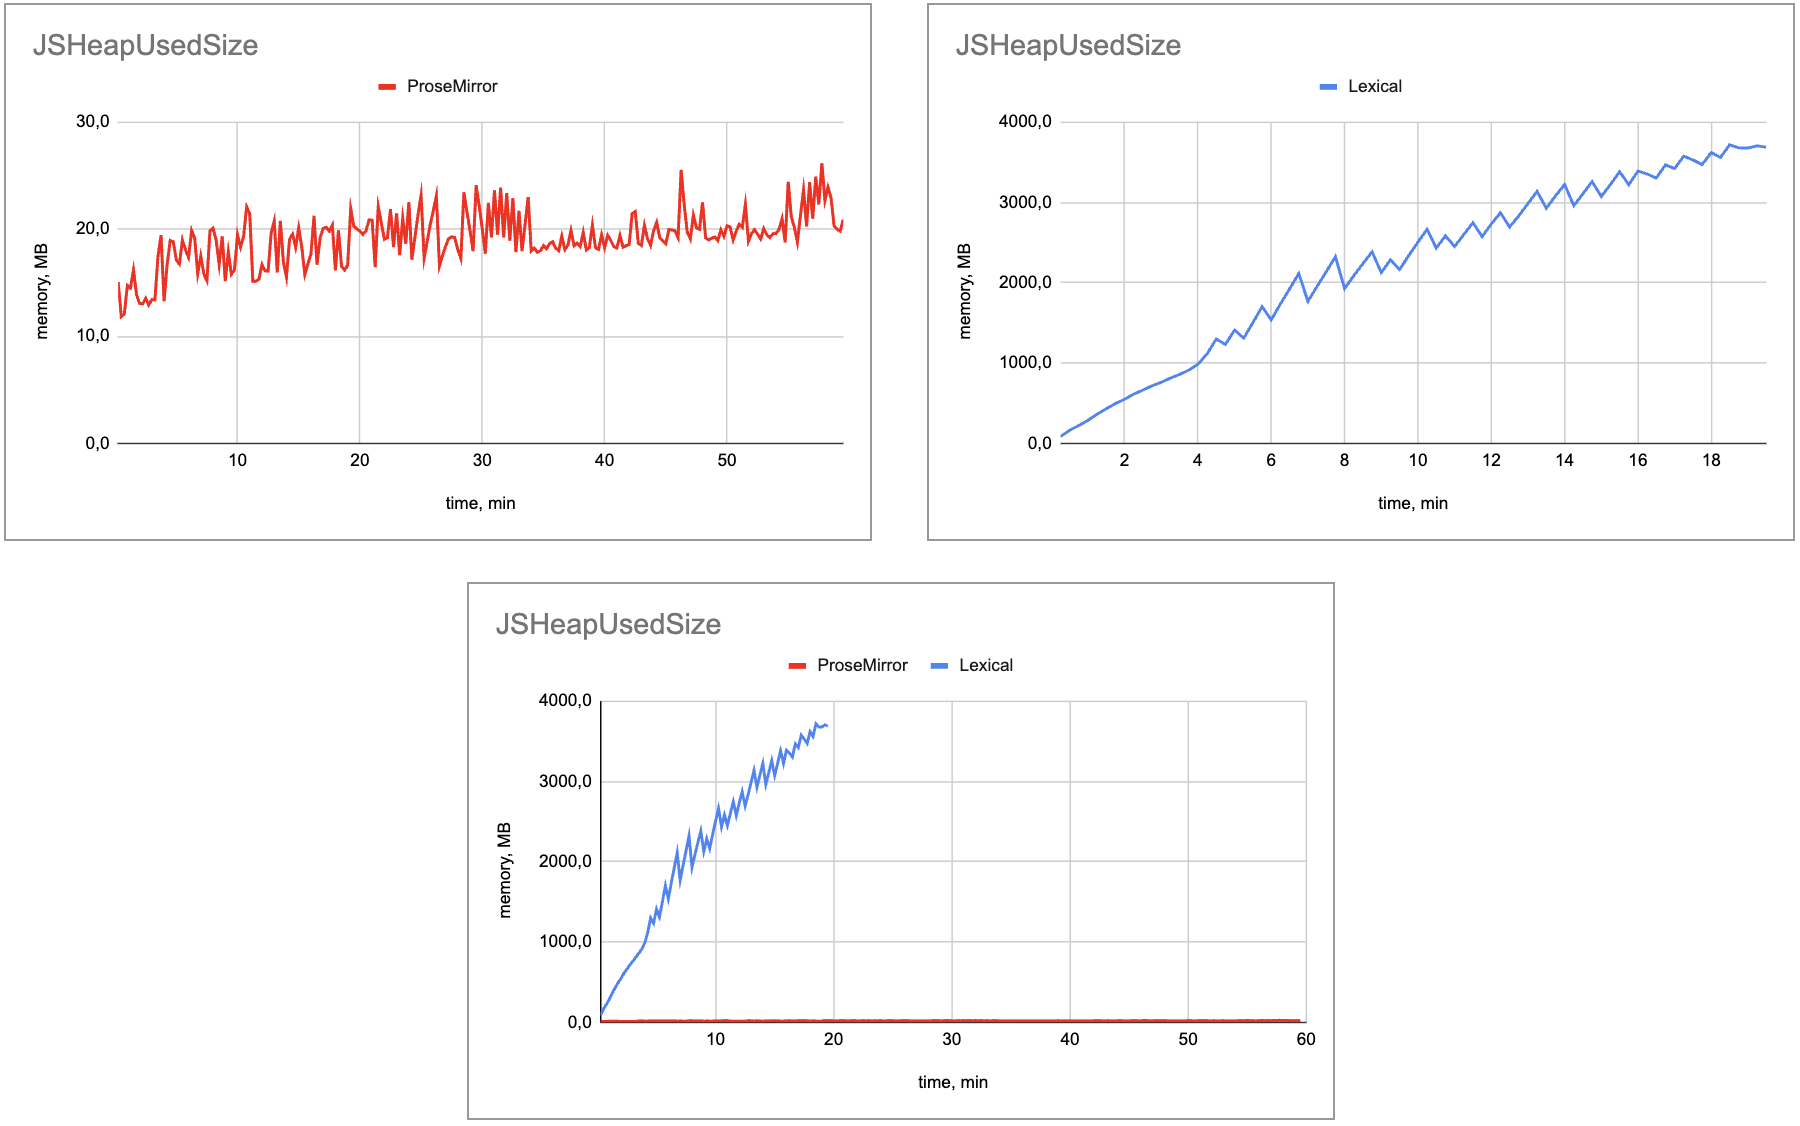
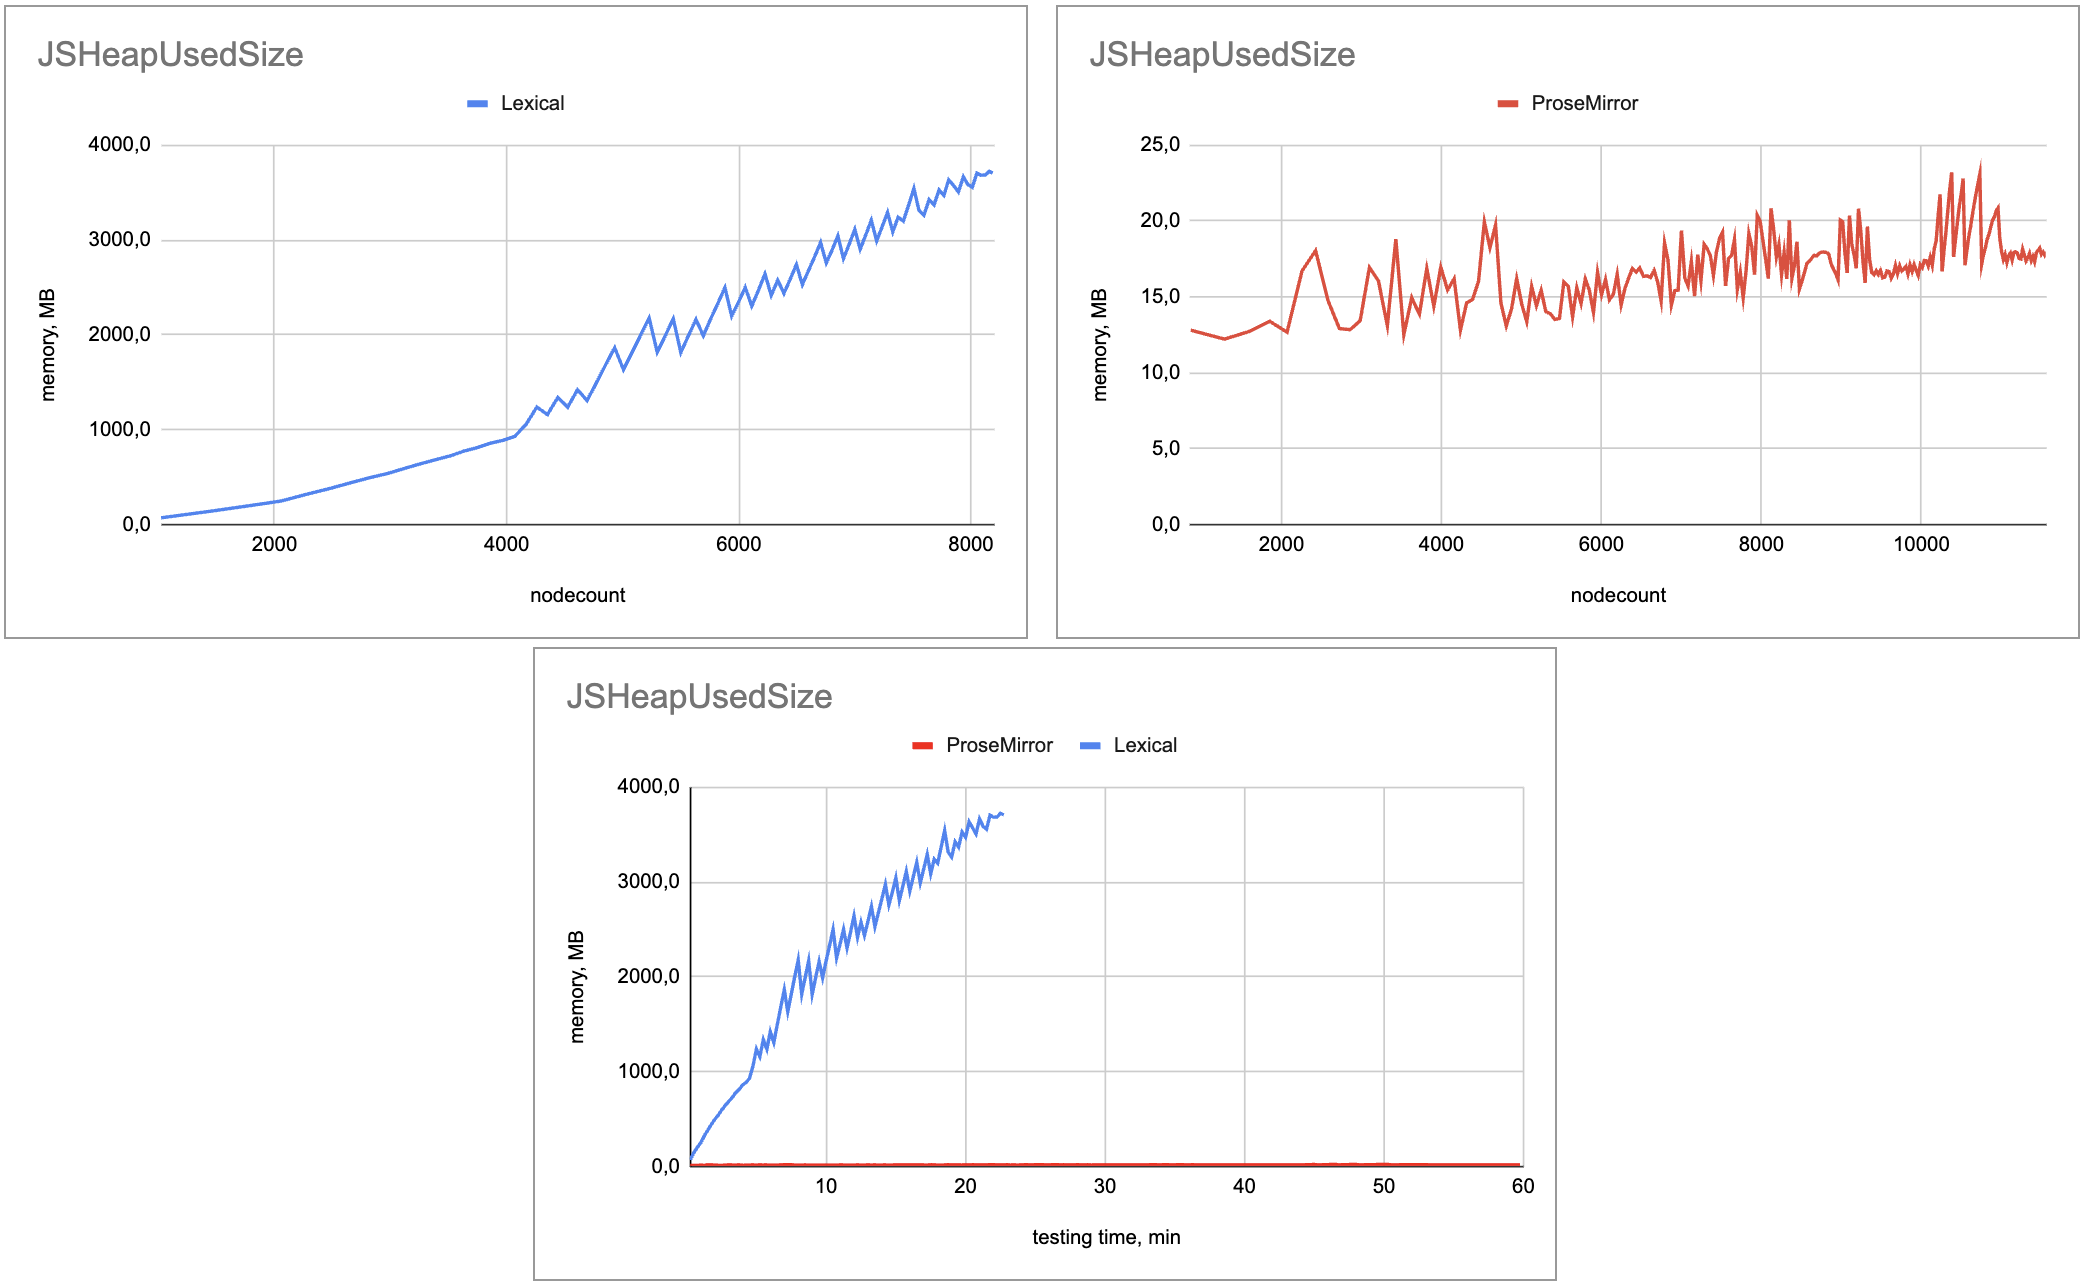
graphs with nodecount

diff --git a/pages/blog/lexical-prosemirror-comparison.tsx b/pages/blog/lexical-prosemirror-comparison.tsx
@@ -22,7 +22,7 @@ const imageStyle: React.CSSProperties = {
   position: "relative",
   display: "flex",
   alignSelf: "center",
-  width: "80%",
+  width: "100%",
   maxWidth: "100%",
   aspectRatio: "16 / 9",
 };
@@ -31,7 +31,7 @@ const MD0 = /* language=md */ `
 
 # tl;dr
 We compared two rich text editors - Lexical and ProseMirror - to evaluate their performance under data load over time. 
-The tests showed significant differences between the two editors depending on the amount of time we want to use them. Lexical performs better for short-term use, responding faster initially, but its performance degrades and it can become unresponsive after about 20 minutes of heavy use. ProseMirror, on the other hand, is designed for long-term use, offering more predictable and stable performance over time. 
+The tests showed significant differences between the two editors depending on the amount of time we want to use them. Lexical performs better for short-term use, responding faster initially, but its performance degrades under very heavy use (likely) due to inefficient memory management. ProseMirror is designed for long-term use, offering a little bit slower responses but more predictable and stable performance over time. 
 
 
 ## Introduction
@@ -49,16 +49,42 @@ The purpose of this test is to see if there's any difference between the two edi
 The website containing the editors was as clean as possible, built with React, the first load bundle of the ProseMirror editor is 158 KB and the Lexical is 160 KB. Both editors had the same basic features: the ProseMirror had an example setup, and the Lexical got equipped with the same tools.
 
 # Test
-The test was performed using Playwright, running in Chrome, and collecting data using the CDP (Chrome DevTools Protocol). The test mimicked typing a word and pressing the ‘enter’ key in a loop. We’ve collected data every 15 seconds and let the test run for one hour (shown in minutes on the x-axis) before manually stopping it. The metrics measured were JSHeapUsedSize, LayoutCount, ThreadTime, and ScriptDuration.
+The test was performed using Playwright, running in Chrome, and collecting data using the CDP (Chrome DevTools Protocol). The test mimicked typing a word and pressing the ‘enter’ key in a loop, creating a new paragraph in every line. We collected measurements and nodecount in every 15 seconds and let the test run for one hour. The metrics measured were JSHeapUsedSize, LayoutCount, ThreadTime, and ScriptDuration.
 
-\`\`\`tsx
+## Note
+You will notice that the Lexical editor stops consistently around the 20-minute mark / 8200 node count in all the tests. The likely cause is related to memory management issues in the long run. 
+The ProseMirror editor could go up to 1 hour, usually reaching 11500 node count.
+
+## (Bypass)
+As we wanted to make the test as noiseless as possible, a thought arose - could it be that the repetitive CDP data collection is interfering with the test? What if instead we saved the trace JSON file at the end and processed it by filtering for only the relevant metrics? 
+
+Each metric we measured with the CDP can be roughly calculated from the data of these trace events:
+
+\**ScriptDuration\**: *total of* RunMicroTasks.dur (cat: v8.execute), FunctionCall.dur (cat: devtools.timeline), EventDispatch.dur (cat: devtools.timeline), MajorGC.dur (cat: devtools.timeline), MinorGC.dur (cat: devtools.timeline)
+
+\**LayoutCount\**: how often the Layout event occurs (cat: devtools.timeline)
+
+\**ThreadTime\**: RunTask.tdur (cat: devtools.timeline) - we needed here the 'tdur' value because it reflects the actual CPU time used by the thread to perform the task, excluding any potential idle time, waiting periods, or other interruptions where the thread was not actively processing the event
+
+\**JSHeapUsedSize\**: UpdateCounters.args.data.jsHeapSizeUsed (cat: disabled-by-default-devtools.timeline)
+
+The trace file can get very large very quickly, so we had to set a filter for the required categories in the beginning and allocate 8GB of memory for it, with an increased timeout in the afterAll hook to let it save the file. Still, the tracing is not designed for an hour-long test that mimics quite active user interaction, so after about 2.5 minutes it just stopped.
+
+And that's how we stayed with the CDP.
+
+\`\`\`typescript
 import { findEditor, relevantMetrics } from "./utils";
 
 const REPEATS = 100000; // to make sure it doesn't finish in an hour
 const MEASUREMENT_INTERVAL = 15000; // ms
-const performanceMetrics: Protocol.Performance.Metric[] = [];
 let page: Page;
-let interval: NodeJS.Timeout;
+
+let nodeCount: number;
+const nodeCountMetrics: number[] = [];
+let nodeCountInterval: NodeJS.Timeout;
+
+const performanceMetrics: Protocol.Performance.Metric[] = [];
+let metricInterval: NodeJS.Timeout;
 let session: CDPSession;
 
 test.beforeAll(async ({ browser }) => {
@@ -66,6 +92,10 @@ test.beforeAll(async ({ browser }) => {
   session = await page.context().newCDPSession(page);
   await session.send("Performance.enable");
   await findEditor(page, "lexical", ".ContentEditable__root");
+  
+  nodeCountInterval = setInterval(async () => {
+    nodeCountMetrics.push(nodeCount);
+  }, MEASUREMENT_INTERVAL);
 
   interval = setInterval(async () => {
     const perfMetrics = await session.send("Performance.getMetrics");
@@ -76,72 +106,73 @@ test.beforeAll(async ({ browser }) => {
   }, MEASUREMENT_INTERVAL);
 });
 
+// the test itself was as light as possible
 test("Lexical stress test", async () => {
-  test.setTimeout(10000000);
-
   for (let i = 0; i < REPEATS; i++) {
     await page.keyboard.type("typing ");
     await page.keyboard.press("Enter");
+    nodeCount = i + 1;
   }
 });
 \`\`\`
 
 
-## Note
-You will notice that the Lexical editor consistently stops around the 20-minute mark in all the tests. The likely cause is related to memory management issues in the long run.
-
-
-
-# ScriptDuration
-*ScriptDuration is the time taken to execute scripts as part of the editor's operation, measured in seconds.*
-
-\**ProseMirror\**: ProseMirror demonstrates stable performance with a predictable and linear increase in script duration over time without sudden spikes or stops. This indicates that it handles operations consistently without significant performance degradation. By the end of the test, ProseMirror reaches a script duration of about 550 seconds.
-
-\**Lexical\**:  Lexical's curve rises more steeply than ProseMirror's, indicating that the time taken by the editor’s scripts increases more rapidly, suggesting that it becomes less efficient over time. The abrupt stop indicates potential performance or stability issues under prolonged stress. Lexical reaches a script duration of about 490 seconds by the 19-minute mark
-
-\**Conclusions\**: In the short term, Lexical's script duration increases more quickly compared to ProseMirror. This rapid increase suggests that Lexical is initially handling text operations more quickly, resulting in shorter script durations. In the long run, however, this means that users may experience increasing delays in response times as they continue to use Lexical. This can lead to a progressively sluggish experience.
+# Nodecount
+We saved the number of nodes (synchronized with the metrics), and it turned out that Lexical could achieve faster performance. When it stopped at about 8200 words, the ProseMirror was usually about to pass the 7600 nodecount. The graph you see is made of the data collected during the ScriptDuration test.
 `;
 
 const MD1 = /* language=md */ `
+
+# ScriptDuration
+*ScriptDuration is the time taken to execute scripts as part of the editor's operation, measured in milliseconds.*
+
+\**Lexical and ProseMirror\**: The ScriptDuration time increases with the nodecount in both editors, but Lexical’s graph rises more sharply.
+When the tracing files were analyzed in Chrome's performance profiler, it was found that Lexical performed almost twice as much minor garbage collection as  ProseMirror.
+
+\**Conclusions\**: Lexical's total of script executing time increases faster than ProseMirror's, which is probably linked to its faster handling of increasing content and more frequent garbage collection. Either way, this means that users may experience increasing delays in response times sooner as they continue to load Lexical.
+`;
+
+const MD2 = /* language=md */ `
     
 # LayoutCount
 *LayoutCount is the number of layout operations performed by the editor.* 
 
-\**ProseMirror\**: Initially ProseMirror's curve is steeper than Lexical's, suggesting that it performs more layout operations per unit of time. It continues to perform consistently throughout the hour, with its operations count steadily increasing. This indicates that ProseMirror maintains its performance without significant degradation over time. At the end of the test it reaches 127600, at about 23 minutes it’s 84500.
+\**Lexical and ProseMirror\**: The number of layout operations grows linearly with nodecount in both editors, though ProseMirror performs about three times more operations than Lexical.
 
-\**Lexical\**: Although both editors start with a steep incline in the number of operations, indicating a high rate of layout operations, the Lexical editor's rate of increase in operations begins to slow down quite early, lagging behind the ProseMirror’s count. It reaches 65600 after about 23 minutes when it stops.
-
-\**Conclusions\**: ProseMirror performing more operations per minute suggests it is potentially more responsive to user inputs, providing smoother and quicker updates to the layout as changes are made.
-This could result in a more fluid user experience, especially in scenarios involving frequent updates, such as typing or complex document editing.
-`;
-
-const MD2 = /* language=md */ `
-
-# ThreadTime
-*ThreadTime refers to the CPU time consumed by the thread handling the editor's operations.*
-
-\**ProseMirror and Lexical\**: Both editors maintain a consistent thread processing rate over time, with thread time increasing linearly. This indicates stable performance and efficient handling of thread operations - as long as the editor is responsive. 
+\**Conclusions\**: In ProseMirror, each user interaction or change generates a transaction, and the editor state is synchronized with the DOM after each transaction. This leads to a higher LayoutCount and is potentially more responsive to user input, providing smoother and quicker updates to the layout. On the other hand, Lexical batches multiple synchronous updates of the editor state into a single asynchronous update to the DOM. This approach improves performance in the short term by reducing the frequency of layout recalculations.
 `;
 
 const MD3 = /* language=md */ `
 
-# JSHeapUsedSize
-*The JSHeapUsedSize is the actual memory being used at any point in time, measured in bytes - here, converted to MB.*
+# ThreadTime
+*ThreadTime refers to the CPU time consumed by the thread handling the editor's operations.*
 
-\**ProseMirror\**: The JSHeapUsedSize for ProseMirror fluctuates slightly, but averages around 20 MB throughout the test. The fluctuations indicate minor changes in memory usage, but there is no significant increase or memory leak observed, demonstrating efficient memory management.
+\**Lexical and ProseMirror\**: As more nodes are added to the editor, the computational load increases, resulting in higher CPU usage. 
 
-\**Lexical\**: The JSHeapUsedSize for Lexical shows a continuous upward trend, indicating increasing memory usage over time, suggesting a potential memory leak or inefficient memory management as the test progresses. The graph stops at 3.86 GB of memory usage just before 20 minutes into the test.
-
-\**Conclusions\**: Lexical users might initially experience responsive performance, but as memory usage increases, they could face lagging, slowdowns, and eventually crashes or unresponsiveness.
+\**Conclusions\**: While Lexical's node count grows quickly initially, its ThreadTime remains overall lower compared to ProseMirror, indicating that Lexical processes nodes more efficiently at lower node counts. 
 `;
 
 const MD4 = /* language=md */ `
 
+# JSHeapUsedSize
+*The JSHeapUsedSize is the actual memory being used at any point in time, measured in bytes - here, converted to MB.*
+
+\**Lexical\**: Lexical shows a continuous upward trend, indicating increasing memory usage over time, suggesting a potential memory leak or inefficient memory management as the test progresses. The graph stops at about 3.6 GB of memory usage around 23 minutes into the test. 
+
+\**ProseMirror\**: The JSHeapUsedSize for ProseMirror fluctuates slightly, but remains mostly between 10 and 20 MB throughout the test. The fluctuations indicate minor changes in memory usage, but there is no significant increase or memory leak observed, demonstrating efficient memory management.
+
+\**Conclusions\**: Lexical users might initially experience responsive performance, but as memory usage increases, they could face lagging, slowdowns, and eventually crashes or unresponsiveness.
+`;
+
+const MD5 = /* language=md */ `
+    
 # Results
 Both editors have their own pros and cons. \n 
-Lexical initially handles the data load better, providing faster responses and handling more operations for a short time, making it a better choice for quick and small editing tasks. Meta likely designed it this way to benefit from these features in their live chat applications, but it can also be used for personal note-taking, kiosk applications, or short-lived web sessions.
+Lexical initially handles the data load better and provides faster content processing, performing operations more efficiently in the short term. This makes it a better choice for quick and small editing tasks. Meta likely designed it this way to benefit from these features in their live chat applications, but it can also be used for personal note-taking, kiosk applications, or short-lived web sessions.
 \n However, if you need an editor for heavier tasks, ProseMirror offers a stable and robust solution (and has more thorough documentation). Whether you are building a CMS (Content Management System), an ECM (Enterprise Content Management), or just need an online editor for your blog, you can count on ProseMirror.
 
+
+Here you find the \**public repository\**  to which we’ve uploaded the tests, so feel free to rerun them or use them as a starting point if you’ve got further ideas - and please tell us about it too!
 `;
 
 const Article = () => (
@@ -157,7 +188,21 @@ const Article = () => (
       author={article19Metadata.author}
       timestamp={article19Metadata.timestamp}
     />
+
     <Markdown source={MD0} />
+    <br />
+
+    <div style={{ ...imageStyle, width: "80%" }}>
+      <Image
+        src="/article19-nodeCount.png"
+        alt="image"
+        fill
+        style={{ objectFit: "contain" }}
+        sizes="(max-width: 768px) 100vw, 60vw"
+      />
+    </div>
+
+    <Markdown source={MD1} />
     <br />
 
     <div style={imageStyle}>
@@ -170,7 +215,7 @@ const Article = () => (
       />
     </div>
 
-    <Markdown source={MD1} />
+    <Markdown source={MD2} />
     <br />
     <div style={imageStyle}>
       <Image
@@ -182,7 +227,7 @@ const Article = () => (
       />
     </div>
 
-    <Markdown source={MD2} />
+    <Markdown source={MD3} />
     <br />
     <div style={imageStyle}>
       <Image
@@ -193,9 +238,9 @@ const Article = () => (
         sizes="(max-width: 768px) 100vw, 60vw"
       />
     </div>
-    <Markdown source={MD3} />
+    <Markdown source={MD4} />
     <br />
-    <div style={{ ...imageStyle, width: "100%" }}>
+    <div style={imageStyle}>
       <Image
         src={"/article19-JSHeapUsedSize.png"}
         alt="image"
@@ -205,7 +250,7 @@ const Article = () => (
       />
     </div>
 
-    <Markdown source={MD4} />
+    <Markdown source={MD5} />
     <SalesBox />
   </ArticleWrapper>
 );
